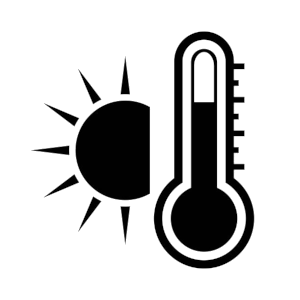
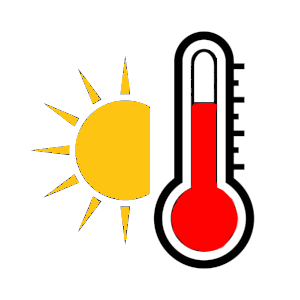
Colorify NbS images; remove unused images

Changed region(s): [[0.12, 0.21, 0.51, 0.81], [0.57, 0.33, 0.81, 0.84]]

diff --git a/figures.html b/figures.html
@@ -347,8 +347,8 @@ class="section level4">
 resources regarding biodiversity loss.</h4>
 <hr />
 <p><br/></p>
-<div id="htmlwidget-89c4c4a5bf28ff673bc9" style="width:100%;height:100%;" class="pixgallery html-widget"></div>
-<script type="application/json" data-for="htmlwidget-89c4c4a5bf28ff673bc9">{"x":{"path":["images/ibpes_fig_spm1.jpg","images/ibpes_fig_spm2.png","images/ibpes_fig_spm3.png","images/planetary_boundaries_2009.jpg","images/ipbes_ipcc_fig1_2.png","images/ipbes_ipcc_fig1_3.png","images/ipbes_ipcc_fig2_2.png","images/ipbes_ipcc_fig6_5.png","images/ipbes_ipcc_fig7_2.png","images/ipbes_ipcc_fig7_4.png","images/sei_nitrogen-report-summary-intro-infographic.png","images/unep_makingpeace_fig2_6.png","images/unep_makingpeace_fig2_7.png","images/unep_makingpeace_fig3_1.png","images/unep_makingpeace_fig3_3.png","images/unep_makingpeace_fig3_4.png","images/unep_makingpeace_fig3_7.png","images/unep_makingpeace_fig3_9.png","images/unep_makingpeace_fig6_2.png","images/unep_makingpeace_fig6_3.png","images/unep_makingpeace_fig8_1.png","images/planetary_boundaries_2022.png","images/wwf_living_planet_2020_fig_indexes.png","images/dasgupta_review_fig2.png","images/dasgupta_review_fig3.png","images/dasgupta_review_fig6.png","images/dasgupta_review_fig9.png","images/dasgupta_review_fig10.png","images/dasgupta_review_fig11.png","images/dasgupta_review_fig12.png","images/dasgupta_review_fig13.png","images/dasgupta_review_fig15.png","images/dasgupta_review_fig16.png","images/dasgupta_review_fig18.png","images/dasgupta_review_fig19.png","images/dasgupta_review_fig20.png","images/dasgupta_review_fig21.png","images/wwf_living_planet_2020_fig4.png","images/wwf_living_planet_2020_fig5.png","images/wwf_living_planet_2020_fig8.png","images/wwf_living_planet_2020_fig10.png","images/wwf_living_planet_2020_fig12.png","images/wwf_living_planet_2020_fig13.png","images/wwf_living_planet_2020_fig15.png","images/wwf_living_planet_2020_fig17.png","images/wwf_living_planet_2020_fig20.png","images/wwf_living_planet_2020_fig22.png","images/wwf_living_planet_2020_fig23.png","images/wwf_living_planet_2020_fig24.png","images/wwf_living_planet_2020_fig25.png","images/wwf_living_planet_2020_fig26.png","images/wwf_living_planet_2020_fig27.png","images/wwf_living_planet_2020_fig28.png","images/brauman_fig1.jpg","images/brauman_fig2.jpg","images/wwf_living_planet_2022_fig1.png","images/wwf_living_planet_2022_fig2.png","images/wwf_living_planet_2022_fig3.png","images/wwf_living_planet_2022_fig4.png","images/wwf_living_planet_2022_fig5.png","images/wwf_living_planet_2022_fig6.png","images/wwf_living_planet_2022_fig7.png","images/wwf_living_planet_2022_fig8.png","images/wwf_living_planet_2022_fig10.png","images/wwf_living_planet_2022_fig11.png","images/wwf_living_planet_2022_fig12.png","images/wwf_living_planet_2022_fig13.png","images/wwf_living_planet_2022_fig14.png","images/wwf_living_planet_2022_fig15.png","images/wwf_living_planet_2022_fig16.png","images/wwf_living_planet_2022_fig17.png","images/wwf_living_planet_2022_fig18.png","images/wwf_living_planet_2022_fig19.png","images/wwf_living_planet_2022_fig21.png","images/wwf_living_planet_2022_fig23.png","images/mea_fig3.png","images/mea_fig4.png","images/mea_fig9.png","images/mea_fig13.png","images/mea_fig15.png"],"caption":["IPBES Global Assessment: Summary for Policymakers - Fig 1","IPBES Global Assessment: Summary for Policymakers - Fig 2","IPBES Global Assessment: Summary for Policymakers - Fig 3","Stockholm Resilience Centre: Planetary Boundary Framework (2009)","IPBES and IPCC Workshop Report - Fig 1.2","IPBES and IPCC Workshop Report - Fig 1.3","IPBES and IPCC Workshop Report - Fig 2.2","IPBES and IPCC Workshop Report - Fig 6.5","IPBES and IPCC Workshop Report - Fig 7.2","IPBES and IPCC Workshop Report - Fig 7.4","SEI UK Nitrogen Report: Intro Infographic","UNEP: Making Peace with Nature - Fig 2.6","UNEP: Making Peace with Nature - Fig 2.7","UNEP: Making Peace with Nature - Fig 3.1","UNEP: Making Peace with Nature - Fig 3.3","UNEP: Making Peace with Nature - Fig 3.4","UNEP: Making Peace with Nature - Fig 3.7","UNEP: Making Peace with Nature - Fig 3.9","UNEP: Making Peace with Nature - Fig 6.2","UNEP: Making Peace with Nature - Fig 6.3","UNEP: Making Peace with Nature - Fig 8.1","Stockholm Resilience Centre: Planetary Boundary Framework (2022)","WWF Living Planet (2020) - Indexes","Dasgupta Review - Fig 2","Dasgupta Review - Fig 3","Dasgupta Review - Fig 6","Dasgupta Review - Fig 9","Dasgupta Review - Fig 10","Dasgupta Review - Fig 11","Dasgupta Review - Fig 12","Dasgupta Review - Fig 13","Dasgupta Review - Fig 15","Dasgupta Review - Fig 16","Dasgupta Review - Fig 18","Dasgupta Review - Fig 19","Dasgupta Review - Fig 20","Dasgupta Review - Fig 21","WWF Living Planet (2020) - Fig 4","WWF Living Planet (2020) - Fig 5","WWF Living Planet (2020) - Fig 8","WWF Living Planet (2020) - Fig 10","WWF Living Planet (2020) - Fig 12","WWF Living Planet (2020) - Fig 13","WWF Living Planet (2020) - Fig 15","WWF Living Planet (2020) - Fig 17","WWF Living Planet (2020) - Fig 20","WWF Living Planet (2020) - Fig 22","WWF Living Planet (2020) - Fig 23","WWF Living Planet (2020) - Fig 24","WWF Living Planet (2020) - Fig 25","WWF Living Planet (2020) - Fig 26","WWF Living Planet (2020) - Fig 27","WWF Living Planet (2020) - Fig 28","Brauman - Fig 1","Brauman - Fig 2","WWF Living Planet (2022) - Fig 1","WWF Living Planet (2022) - Fig 2","WWF Living Planet (2022) - Fig 3","WWF Living Planet (2022) - Fig 4","WWF Living Planet (2022) - Fig 5","WWF Living Planet (2022) - Fig 6","WWF Living Planet (2022) - Fig 7","WWF Living Planet (2022) - Fig 8","WWF Living Planet (2022) - Fig 10","WWF Living Planet (2022) - Fig 11","WWF Living Planet (2022) - Fig 11","WWF Living Planet (2022) - Fig 13","WWF Living Planet (2022) - Fig 14","WWF Living Planet (2022) - Fig 15","WWF Living Planet (2022) - Fig 16","WWF Living Planet (2022) - Fig 17","WWF Living Planet (2022) - Fig 18","WWF Living Planet (2022) - Fig 19","WWF Living Planet (2022) - Fig 21","WWF Living Planet (2022) - Fig 23","Millennium Ecosystem Assessment - Fig 3","Millennium Ecosystem Assessment - Fig 4","Millennium Ecosystem Assessment - Fig 9","Millennium Ecosystem Assessment - Fig 13","Millennium Ecosystem Assessment - Fig 15"],"dim":"200px","gap":"6px","type":"grid"},"evals":[],"jsHooks":[]}</script>
+<div id="htmlwidget-8404b29c9861df162039" style="width:100%;height:100%;" class="pixgallery html-widget"></div>
+<script type="application/json" data-for="htmlwidget-8404b29c9861df162039">{"x":{"path":["images/ibpes_fig_spm1.jpg","images/ibpes_fig_spm2.png","images/ibpes_fig_spm3.png","images/planetary_boundaries_2009.jpg","images/ipbes_ipcc_fig1_2.png","images/ipbes_ipcc_fig1_3.png","images/ipbes_ipcc_fig2_2.png","images/ipbes_ipcc_fig6_5.png","images/ipbes_ipcc_fig7_2.png","images/ipbes_ipcc_fig7_4.png","images/sei_nitrogen-report-summary-intro-infographic.png","images/unep_makingpeace_fig2_6.png","images/unep_makingpeace_fig2_7.png","images/unep_makingpeace_fig3_1.png","images/unep_makingpeace_fig3_3.png","images/unep_makingpeace_fig3_4.png","images/unep_makingpeace_fig3_7.png","images/unep_makingpeace_fig3_9.png","images/unep_makingpeace_fig6_2.png","images/unep_makingpeace_fig6_3.png","images/unep_makingpeace_fig8_1.png","images/planetary_boundaries_2022.png","images/wwf_living_planet_2020_fig_indexes.png","images/dasgupta_review_fig2.png","images/dasgupta_review_fig3.png","images/dasgupta_review_fig6.png","images/dasgupta_review_fig9.png","images/dasgupta_review_fig10.png","images/dasgupta_review_fig11.png","images/dasgupta_review_fig12.png","images/dasgupta_review_fig13.png","images/dasgupta_review_fig15.png","images/dasgupta_review_fig16.png","images/dasgupta_review_fig18.png","images/dasgupta_review_fig19.png","images/dasgupta_review_fig20.png","images/dasgupta_review_fig21.png","images/wwf_living_planet_2020_fig4.png","images/wwf_living_planet_2020_fig5.png","images/wwf_living_planet_2020_fig8.png","images/wwf_living_planet_2020_fig10.png","images/wwf_living_planet_2020_fig12.png","images/wwf_living_planet_2020_fig13.png","images/wwf_living_planet_2020_fig15.png","images/wwf_living_planet_2020_fig17.png","images/wwf_living_planet_2020_fig20.png","images/wwf_living_planet_2020_fig22.png","images/wwf_living_planet_2020_fig23.png","images/wwf_living_planet_2020_fig24.png","images/wwf_living_planet_2020_fig25.png","images/wwf_living_planet_2020_fig26.png","images/wwf_living_planet_2020_fig27.png","images/wwf_living_planet_2020_fig28.png","images/brauman_fig1.jpg","images/brauman_fig2.jpg","images/wwf_living_planet_2022_fig1.png","images/wwf_living_planet_2022_fig2.png","images/wwf_living_planet_2022_fig3.png","images/wwf_living_planet_2022_fig4.png","images/wwf_living_planet_2022_fig5.png","images/wwf_living_planet_2022_fig6.png","images/wwf_living_planet_2022_fig7.png","images/wwf_living_planet_2022_fig8.png","images/wwf_living_planet_2022_fig10.png","images/wwf_living_planet_2022_fig11.png","images/wwf_living_planet_2022_fig12.png","images/wwf_living_planet_2022_fig13.png","images/wwf_living_planet_2022_fig14.png","images/wwf_living_planet_2022_fig15.png","images/wwf_living_planet_2022_fig16.png","images/wwf_living_planet_2022_fig17.png","images/wwf_living_planet_2022_fig18.png","images/wwf_living_planet_2022_fig19.png","images/wwf_living_planet_2022_fig21.png","images/wwf_living_planet_2022_fig23.png","images/mea_fig3.png","images/mea_fig4.png","images/mea_fig9.png","images/mea_fig13.png","images/mea_fig15.png"],"caption":["IPBES Global Assessment: Summary for Policymakers - Fig 1","IPBES Global Assessment: Summary for Policymakers - Fig 2","IPBES Global Assessment: Summary for Policymakers - Fig 3","Stockholm Resilience Centre: Planetary Boundary Framework (2009)","IPBES and IPCC Workshop Report - Fig 1.2","IPBES and IPCC Workshop Report - Fig 1.3","IPBES and IPCC Workshop Report - Fig 2.2","IPBES and IPCC Workshop Report - Fig 6.5","IPBES and IPCC Workshop Report - Fig 7.2","IPBES and IPCC Workshop Report - Fig 7.4","SEI UK Nitrogen Report: Intro Infographic","UNEP: Making Peace with Nature - Fig 2.6","UNEP: Making Peace with Nature - Fig 2.7","UNEP: Making Peace with Nature - Fig 3.1","UNEP: Making Peace with Nature - Fig 3.3","UNEP: Making Peace with Nature - Fig 3.4","UNEP: Making Peace with Nature - Fig 3.7","UNEP: Making Peace with Nature - Fig 3.9","UNEP: Making Peace with Nature - Fig 6.2","UNEP: Making Peace with Nature - Fig 6.3","UNEP: Making Peace with Nature - Fig 8.1","Stockholm Resilience Centre: Planetary Boundary Framework (2022)","WWF Living Planet (2020) - Indexes","Dasgupta Review - Fig 2","Dasgupta Review - Fig 3","Dasgupta Review - Fig 6","Dasgupta Review - Fig 9","Dasgupta Review - Fig 10","Dasgupta Review - Fig 11","Dasgupta Review - Fig 12","Dasgupta Review - Fig 13","Dasgupta Review - Fig 15","Dasgupta Review - Fig 16","Dasgupta Review - Fig 18","Dasgupta Review - Fig 19","Dasgupta Review - Fig 20","Dasgupta Review - Fig 21","WWF Living Planet (2020) - Fig 4","WWF Living Planet (2020) - Fig 5","WWF Living Planet (2020) - Fig 8","WWF Living Planet (2020) - Fig 10","WWF Living Planet (2020) - Fig 12","WWF Living Planet (2020) - Fig 13","WWF Living Planet (2020) - Fig 15","WWF Living Planet (2020) - Fig 17","WWF Living Planet (2020) - Fig 20","WWF Living Planet (2020) - Fig 22","WWF Living Planet (2020) - Fig 23","WWF Living Planet (2020) - Fig 24","WWF Living Planet (2020) - Fig 25","WWF Living Planet (2020) - Fig 26","WWF Living Planet (2020) - Fig 27","WWF Living Planet (2020) - Fig 28","Brauman - Fig 1","Brauman - Fig 2","WWF Living Planet (2022) - Fig 1","WWF Living Planet (2022) - Fig 2","WWF Living Planet (2022) - Fig 3","WWF Living Planet (2022) - Fig 4","WWF Living Planet (2022) - Fig 5","WWF Living Planet (2022) - Fig 6","WWF Living Planet (2022) - Fig 7","WWF Living Planet (2022) - Fig 8","WWF Living Planet (2022) - Fig 10","WWF Living Planet (2022) - Fig 11","WWF Living Planet (2022) - Fig 11","WWF Living Planet (2022) - Fig 13","WWF Living Planet (2022) - Fig 14","WWF Living Planet (2022) - Fig 15","WWF Living Planet (2022) - Fig 16","WWF Living Planet (2022) - Fig 17","WWF Living Planet (2022) - Fig 18","WWF Living Planet (2022) - Fig 19","WWF Living Planet (2022) - Fig 21","WWF Living Planet (2022) - Fig 23","Millennium Ecosystem Assessment - Fig 3","Millennium Ecosystem Assessment - Fig 4","Millennium Ecosystem Assessment - Fig 9","Millennium Ecosystem Assessment - Fig 13","Millennium Ecosystem Assessment - Fig 15"],"dim":"200px","gap":"6px","type":"grid"},"evals":[],"jsHooks":[]}</script>
 <p><br/> <br/> <br/></p>
 <hr />
 </div>

diff --git a/index.html b/index.html
@@ -532,10 +532,10 @@ solutions:</h4>
 <h4><strong>Heatwaves</strong></h4>
 <blockquote>
 <h4
-id="climate-change-causes-prolonged-and-intense-heatwaves-but-biodiversity-with-transpiration-of-trees-and-plants-can-bring-a-cooling-effect-and-reduce-urban-heat-island-effects.">Climate
-change causes prolonged and intense heatwaves, <strong><em>but
+id="climate-change-causes-prolonged-and-intense-heatwaves-and-biodiversity-with-transpiration-of-trees-and-plants-can-bring-a-coolness-and-reduce-urban-heat-island-effects.">Climate
+change causes prolonged and intense heatwaves, <strong><em>and
 biodiversity</em></strong> with transpiration of trees and plants can
-bring a cooling effect and reduce urban heat island effects.</h4>
+bring a coolness and reduce urban heat island effects.</h4>
 </blockquote>
 <p><br/></p>
 <div class="climate_image">
@@ -546,8 +546,8 @@ bring a cooling effect and reduce urban heat island effects.</h4>
 <h4><strong>Flooding</strong></h4>
 <blockquote>
 <h4
-id="climate-change-causes-more-extreme-weather-events-but-biodiversity-with-healthy-rivers-wetlands-and-coral-reefs-across-coastlines-and-floodplains-can-absorb-and-buffer-storm-surges-and-flooding.">Climate
-change causes more extreme weather events, <strong><em>but
+id="climate-change-causes-more-extreme-weather-events-and-biodiversity-with-healthy-rivers-wetlands-and-coral-reefs-across-coastlines-and-floodplains-can-absorb-and-buffer-storm-surges-and-flooding.">Climate
+change causes more extreme weather events, <strong><em>and
 biodiversity</em></strong> with healthy rivers, wetlands, and coral
 reefs across coastlines and floodplains can absorb and buffer storm
 surges and flooding.</h4>
@@ -561,8 +561,8 @@ surges and flooding.</h4>
 <h4><strong>Famine</strong></h4>
 <blockquote>
 <h4
-id="climate-change-causes-more-crop-yields-to-decline-but-biodiversity-with-rich-soil-organisms-can-regulate-and-regenerate-soil-health-and-with-diverse-crops-and-livestock-can-stabilize-food-supply.">Climate
-change causes more crop yields to decline, <strong><em>but
+id="climate-change-causes-more-crop-yields-to-decline-and-biodiversity-with-rich-soil-organisms-can-regulate-and-regenerate-soil-health-and-with-diverse-crops-and-livestock-can-stabilize-food-supply.">Climate
+change causes more crop yields to decline, <strong><em>and
 biodiversity</em></strong> with rich soil organisms can regulate and
 regenerate soil health and with diverse crops and livestock can
 stabilize food supply.</h4>
@@ -576,8 +576,8 @@ stabilize food supply.</h4>
 <h4><strong>Drought</strong></h4>
 <blockquote>
 <h4
-id="climate-change-causes-more-widespread-droughts-but-biodiversity-with-healthy-freshwater-ecosystems-can-regulate-water-quality-flow-supply-and-enhance-groundwater-systems.">Climate
-change causes more widespread droughts, <strong><em>but
+id="climate-change-causes-more-widespread-droughts-and-biodiversity-with-healthy-freshwater-ecosystems-can-regulate-water-quality-flow-supply-and-enhance-groundwater-systems.">Climate
+change causes more widespread droughts, <strong><em>and
 biodiversity</em></strong> with healthy freshwater ecosystems can
 regulate water quality, flow, supply, and enhance groundwater
 systems.</h4>
@@ -591,9 +591,9 @@ systems.</h4>
 <h4><strong>Pests</strong></h4>
 <blockquote>
 <h4
-id="climate-change-causes-spread-of-forest-and-crop-pests-and-diseases-but-biodiversity-with-native-and-diverse-species-in-place-of-non-native-monocultured-plantations-can-decrease-prevalence-of-pests-and-diseases.">Climate
+id="climate-change-causes-spread-of-forest-and-crop-pests-and-diseases-and-biodiversity-with-native-and-diverse-species-in-place-of-non-native-monocultured-plantations-can-decrease-prevalence-of-pests-and-diseases.">Climate
 change causes spread of forest and crop pests and diseases,
-<strong><em>but biodiversity</em></strong> with native and diverse
+<strong><em>and biodiversity</em></strong> with native and diverse
 species in place of non-native, monocultured plantations can decrease
 prevalence of pests and diseases.</h4>
 </blockquote>
@@ -606,8 +606,8 @@ prevalence of pests and diseases.</h4>
 <h4><strong>Wildfires</strong></h4>
 <blockquote>
 <h4
-id="climate-change-causes-more-extreme-wildfires-but-biodiversity-with-diverse-forests-in-genes-and-species-can-spread-risk-increase-resistance-to-stresses-and-promote-resilience-to-forest-systems.">Climate
-change causes more extreme wildfires, <strong><em>but
+id="climate-change-causes-more-extreme-wildfires-and-biodiversity-with-diverse-forests-in-genes-and-species-can-spread-risk-increase-resistance-to-stresses-and-promote-resilience-to-forest-systems.">Climate
+change causes more extreme wildfires, <strong><em>and
 biodiversity</em></strong> with diverse forests in genes and species can
 spread risk, increase resistance to stresses, and promote resilience to
 forest systems.</h4>
@@ -621,9 +621,9 @@ forest systems.</h4>
 <h4><strong>Emissions</strong></h4>
 <blockquote>
 <h4
-id="climate-change-mostly-derives-from-emitting-carbon-emissions-into-atmosphere-but-biodiversity-with-healthy-forests-wetlands-mangroves-seagrass-and-other-biomes-can-naturally-capture-and-sequester-carbon.">Climate
+id="climate-change-mostly-derives-from-emitting-carbon-emissions-into-atmosphere-and-biodiversity-with-healthy-forests-wetlands-mangroves-seagrass-and-other-biomes-can-naturally-capture-and-sequester-carbon.">Climate
 change mostly derives from emitting carbon emissions into atmosphere,
-<strong><em>but biodiversity</em></strong> with healthy forests,
+<strong><em>and biodiversity</em></strong> with healthy forests,
 wetlands, mangroves, seagrass, and other biomes can naturally capture
 and sequester carbon.</h4>
 </blockquote>
